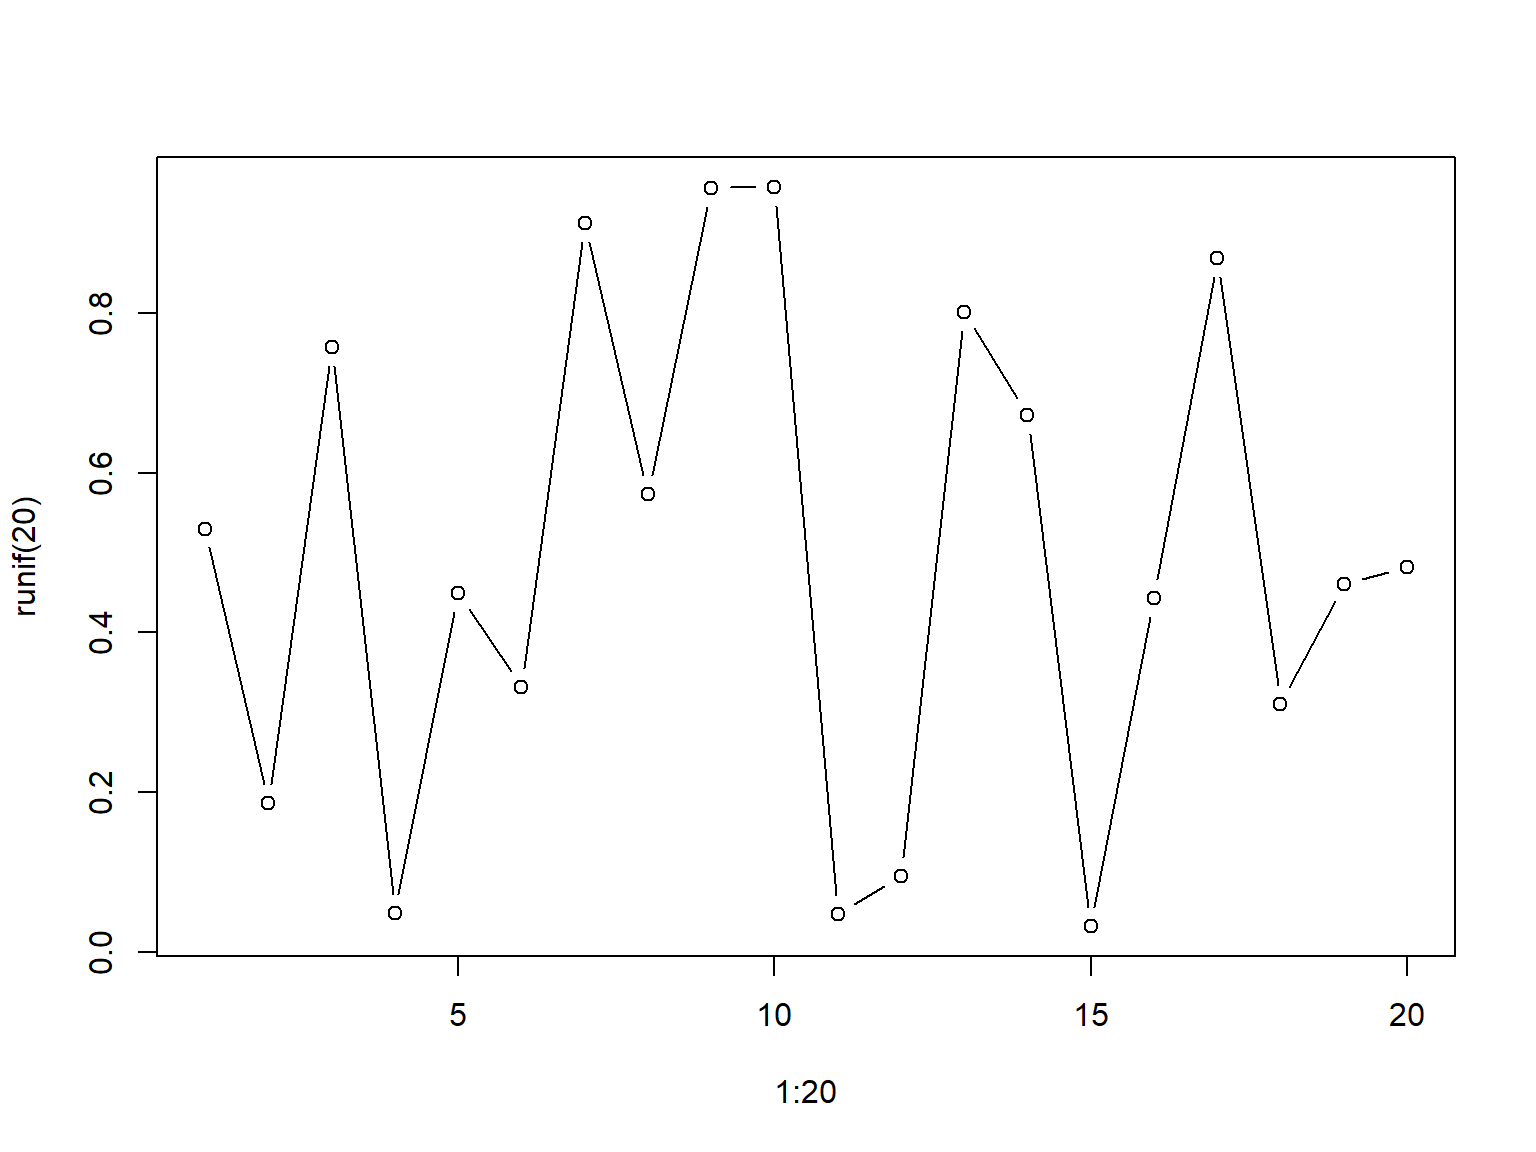
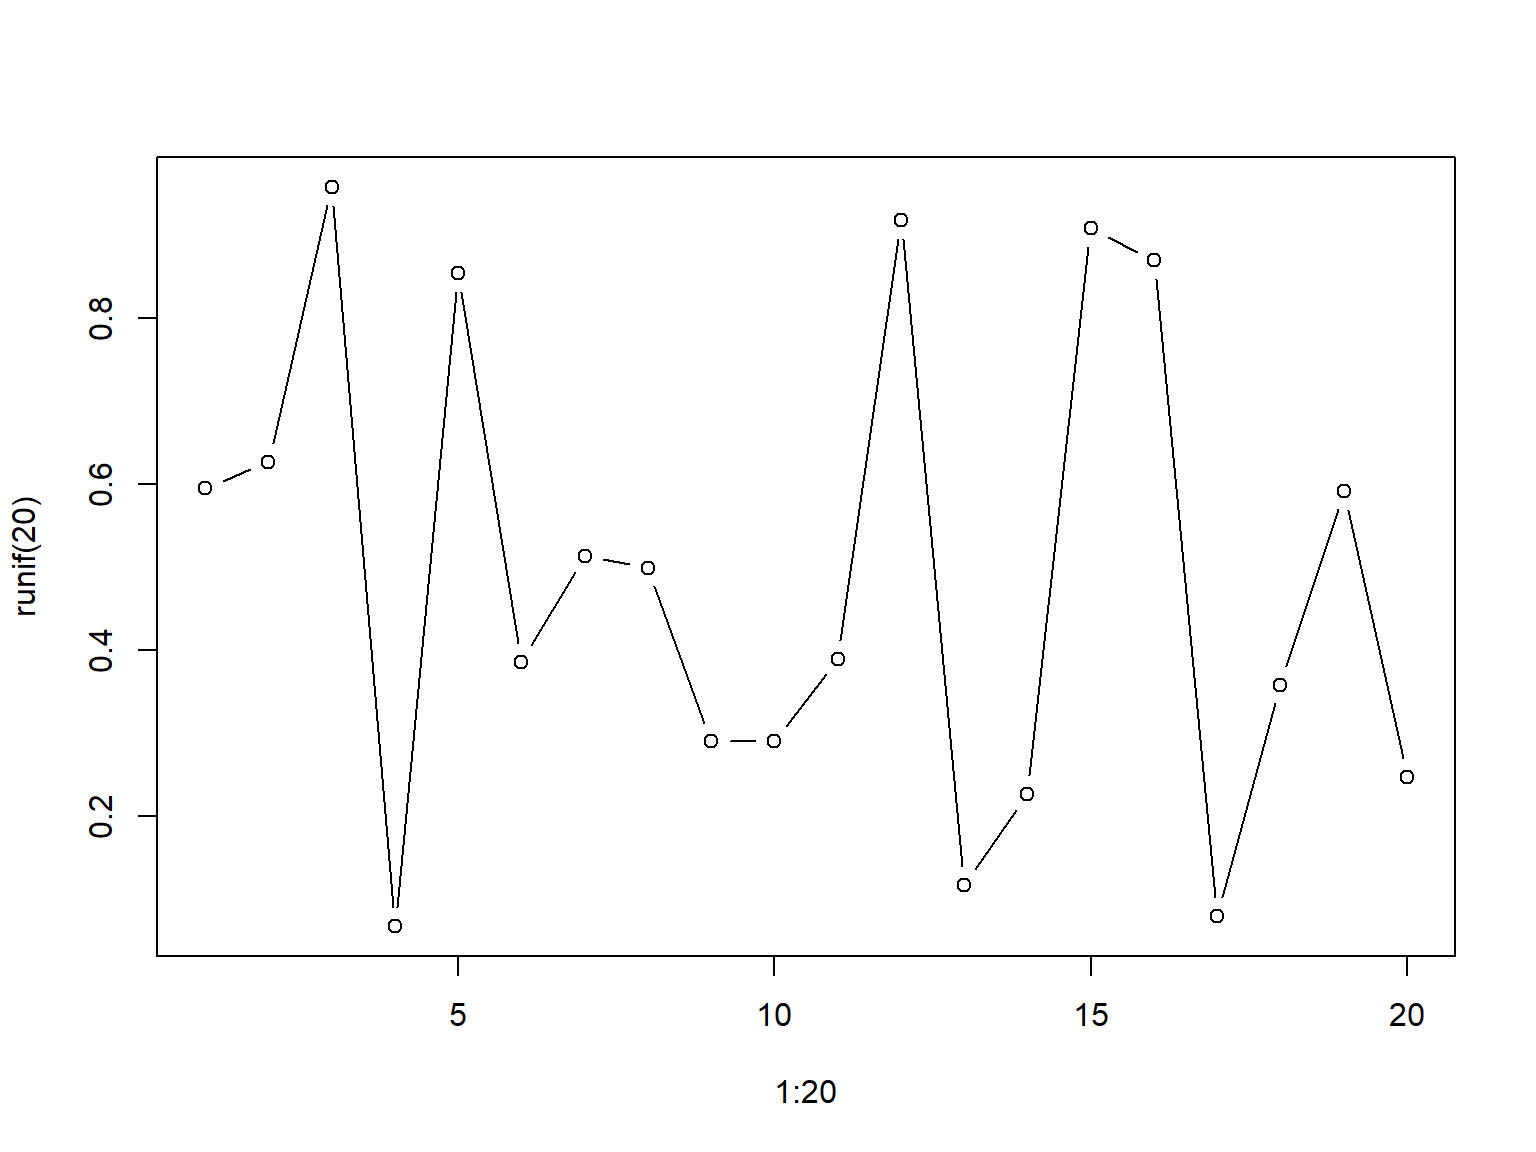
Update to index.html, slides_pt1

diff --git a/slides/slides_pt1.html b/slides/slides_pt1.html
@@ -7,7 +7,7 @@
   <meta http-equiv="Content-Style-Type" content="text/css" />
   <meta name="generator" content="pandoc" />
   <meta name="author" content=" October 11, 2022" />
-  <meta name="copyright" content="<a href='' style='color:#444;'></a>"/>
+  <meta name="copyright" content="<a href='https://ucanr-igis.github.io/IntroR_Oct22/' style='color:#444;'>https://ucanr-igis.github.io/IntroR_Oct22/</a>"/>
   <title>Intro to R Pt1</title>
   <style type="text/css">
     code{white-space: pre-wrap;}
@@ -176,7 +176,7 @@ code span.wa { color: #60a0b0; font-weight: bold; font-style: italic; } /* Warni
 <img src='images/r_rstudio_400x120.png' style='width:400px; height:120px; margin-top:0.5em; margin-bottom:2em;'/><br/>October
 11, 2022
   </p>
-  <p class="date"><a href='' style='color:darkgreen; font-size:105%; font-family:monospace;'>
+  <p class="date"><a href='https://ucanr-igis.github.io/IntroR_Oct22/' style='color:darkgreen; font-size:105%; font-family:monospace;'>https://ucanr-igis.github.io/IntroR_Oct22/
 </a><br/><img src='images/igis-logo_550x58x256.png' style='margin-top:1.5em;'/></p>
 </div>
 <div id="about-me" class="slide section level1">
@@ -200,8 +200,8 @@ w3c_slidy.mouse_click_enabled = false;
[1 lines of base64/hex data omitted]
 <p class='qtext'>Location</p>
 <div style='margin:0 1em;'>
-<div id="htmlwidget-f738efbcca17c8d09a56" style="width:100%;height:400px;" class="leaflet html-widget"></div>
-<script type="application/json" data-for="htmlwidget-f738efbcca17c8d09a56">{"x":{"options":{"crs":{"crsClass":"L.CRS.EPSG3857","code":null,"proj4def":null,"projectedBounds":null,"options":{}}},"calls":[{"method":"addTiles","args":["https://{s}.tile.openstreetmap.org/{z}/{x}/{y}.png",null,null,{"minZoom":0,"maxZoom":18,"tileSize":256,"subdomains":"abc","errorTileUrl":"","tms":false,"noWrap":false,"zoomOffset":0,"zoomReverse":false,"opacity":1,"zIndex":1,"detectRetina":false,"attribution":"&copy; <a href=\"https://openstreetmap.org\">OpenStreetMap<\/a> contributors, <a href=\"https://creativecommons.org/licenses/by-sa/2.0/\">CC-BY-SA<\/a>"}]},{"method":"addCircleMarkers","args":[[33.6845673,35.8577443,35.8577443,22.5645175,-15.7666707,37.8715226,37.8715226,37.8715226,37.8715226,37.8043514,33.8491816,36.2077288,37.8715226,-27.4704528,37.8715226,34.4208305,37.8715226,38.5449065,20.8074834,38.5449065,33.9806005,38.5449065,41.8781136,38.2975381,36.6116174,38.5449065,33.9806005,38.5804609,38.5449065,37.7749295,38.5449065,38.5449065,34.134728,40.7309778,38.5449065,34.2804923,37.8043514,37.0849464,37.33874,38.8965654,38.5449065,38.5449065,37.8043514,37.33874,38.5449065,38.5449065,38.5449065,42.4439614,37.8043514,37.8043514,38.6785157,33.9806005,33.9806005,42.4439614,38.5449065,36.7377981,33.6845673,42.4439614,35.3732921,38.5449065,37.6392595,36.7377981,38.5449065,38.5449065,33.9806005,38.1960298,38.5449065,38.5449065,38.5449065,38.5449065,33.9806005,33.9806005,34.0522342,36.6116174,38.5449065,33.9806005,40.8020712,38.6785157,38.5449065,36.7377981,38.6785157,33.9806005,42.4439614,33.9806005,38.5449065,39.1501709,36.6116174,37.8043514,38.5449065],[-117.8265049,-0.3096606,-0.3096606,72.928871,35.0167866,-122.273042,-122.273042,-122.273042,-122.273042,-122.2711639,-118.3884078,-119.3473379,-122.273042,153.0260341,-122.273042,-119.6981901,-122.273042,-121.7405167,-105.2480864,-121.7405167,-117.3754942,-121.7405167,-87.6297982,-122.286865,-119.5270734,-121.7405167,-117.3754942,-121.530234,-121.7405167,-122.4194155,-121.7405167,-121.7405167,-116.3130661,-122.9419708,-121.7405167,-119.2945199,-122.2711639,-121.6102216,-121.8852525,-121.0768901,-121.7405167,-121.7405167,-122.2711639,-121.8852525,-121.7405167,-121.7405167,-121.7405167,-76.5018807,-122.2711639,-122.2711639,-121.7732971,-117.3754942,-117.3754942,-76.5018807,-121.7405167,-119.7871247,-117.8265049,-76.5018807,-119.0187125,-121.7405167,-120.9970014,-119.7871247,-121.7405167,-121.7405167,-117.3754942,-120.6804872,-121.7405167,-121.7405167,-121.7405167,-121.7405167,-117.3754942,-117.3754942,-118.2436849,-119.5270734,-121.7405167,-117.3754942,-124.1636729,-121.7732971,-121.7405167,-119.7871247,-121.7732971,-117.3754942,-76.5018807,-117.3754942,-121.7405167,-123.2077831,-119.5270734,-122.2711639,-121.7405167],10,null,null,{"interactive":true,"className":"","stroke":false,"color":"#03F","weight":5,"opacity":0.5,"fill":true,"fillColor":"#03F","fillOpacity":0.5},1,null,null,null,null,{"interactive":false,"permanent":false,"direction":"auto","opacity":1,"offset":[0,0],"textsize":"10px","textOnly":false,"className":"","sticky":true},null]}],"limits":{"lat":[-27.4704528,42.4439614],"lng":[-124.1636729,153.0260341]}},"evals":[],"jsHooks":[]}</script>
+<div id="htmlwidget-43a6e249119abfb8fde6" style="width:100%;height:400px;" class="leaflet html-widget"></div>
+<script type="application/json" data-for="htmlwidget-43a6e249119abfb8fde6">{"x":{"options":{"crs":{"crsClass":"L.CRS.EPSG3857","code":null,"proj4def":null,"projectedBounds":null,"options":{}}},"calls":[{"method":"addTiles","args":["https://{s}.tile.openstreetmap.org/{z}/{x}/{y}.png",null,null,{"minZoom":0,"maxZoom":18,"tileSize":256,"subdomains":"abc","errorTileUrl":"","tms":false,"noWrap":false,"zoomOffset":0,"zoomReverse":false,"opacity":1,"zIndex":1,"detectRetina":false,"attribution":"&copy; <a href=\"https://openstreetmap.org\">OpenStreetMap<\/a> contributors, <a href=\"https://creativecommons.org/licenses/by-sa/2.0/\">CC-BY-SA<\/a>"}]},{"method":"addCircleMarkers","args":[[33.6845673,35.8577443,35.8577443,22.5645175,-15.7666707,37.8715226,37.8715226,37.8715226,37.8715226,37.8043514,33.8491816,36.2077288,37.8715226,-27.4704528,37.8715226,34.4208305,37.8715226,38.5449065,20.8074834,38.5449065,33.9806005,38.5449065,41.8781136,38.2975381,36.6116174,38.5449065,33.9806005,38.5804609,38.5449065,37.7749295,38.5449065,38.5449065,34.134728,40.7309778,38.5449065,34.2804923,37.8043514,37.0849464,37.33874,38.8965654,38.5449065,38.5449065,37.8043514,37.33874,38.5449065,38.5449065,38.5449065,42.4439614,37.8043514,37.8043514,38.6785157,33.9806005,33.9806005,42.4439614,38.5449065,36.7377981,33.6845673,42.4439614,35.3732921,38.5449065,37.6392595,36.7377981,38.5449065,38.5449065,33.9806005,38.1960298,38.5449065,38.5449065,38.5449065,38.5449065,33.9806005,33.9806005,34.0522342,36.6116174,38.5449065,33.9806005,40.8020712,38.6785157,38.5449065,36.7377981,38.6785157,33.9806005,42.4439614,33.9806005,38.5449065,39.1501709,36.6116174,37.8043514,38.5449065],[-117.8265049,-0.3096606,-0.3096606,72.928871,35.0167866,-122.273042,-122.273042,-122.273042,-122.273042,-122.2711639,-118.3884078,-119.3473379,-122.273042,153.0260341,-122.273042,-119.6981901,-122.273042,-121.7405167,-105.2480864,-121.7405167,-117.3754942,-121.7405167,-87.6297982,-122.286865,-119.5270734,-121.7405167,-117.3754942,-121.530234,-121.7405167,-122.4194155,-121.7405167,-121.7405167,-116.3130661,-122.9419708,-121.7405167,-119.2945199,-122.2711639,-121.6102216,-121.8852525,-121.0768901,-121.7405167,-121.7405167,-122.2711639,-121.8852525,-121.7405167,-121.7405167,-121.7405167,-76.5018807,-122.2711639,-122.2711639,-121.7732971,-117.3754942,-117.3754942,-76.5018807,-121.7405167,-119.7871247,-117.8265049,-76.5018807,-119.0187125,-121.7405167,-120.9970014,-119.7871247,-121.7405167,-121.7405167,-117.3754942,-120.6804872,-121.7405167,-121.7405167,-121.7405167,-121.7405167,-117.3754942,-117.3754942,-118.2436849,-119.5270734,-121.7405167,-117.3754942,-124.1636729,-121.7732971,-121.7405167,-119.7871247,-121.7732971,-117.3754942,-76.5018807,-117.3754942,-121.7405167,-123.2077831,-119.5270734,-122.2711639,-121.7405167],10,null,null,{"interactive":true,"className":"","stroke":false,"color":"#03F","weight":5,"opacity":0.5,"fill":true,"fillColor":"#03F","fillOpacity":0.5},1,null,null,null,null,{"interactive":false,"permanent":false,"direction":"auto","opacity":1,"offset":[0,0],"textsize":"10px","textOnly":false,"className":"","sticky":true},null]}],"limits":{"lat":[-27.4704528,42.4439614],"lng":[-124.1636729,153.0260341]}},"evals":[],"jsHooks":[]}</script>
 </div>
 </div>
 </div>
@@ -349,7 +349,7 @@ run RStudio through a browser</li>
 </li>
 <li>everything gets saved between sessions<br />
 </li>
-<li>workspaces have projects<br />
+<li>workspaces and projects can be shared with collaborators<br />
 </li>
 </ul>
 </div>
@@ -372,7 +372,8 @@ class="slide section level1">
 </p>
 <p>RStudio Cloud project for this workshop:</p>
 <p style="font-family:monospace; font-size:110%; text-align:center;">
-<a href="" target="_blank"></a>
+<a href="https://rstudio.cloud/content/4701501"
+target="_blank">https://rstudio.cloud/content/4701501</a>
 </p>
 <p>After it opens:</p>
 <p><img src="images/rstudio-cloud_save-perm-copy_334x58.png"
@@ -534,7 +535,7 @@ SignatureMethod
 <h1>Vectors</h1>
 <p><strong>vectors</strong> are R objects that contain <strong>multiple
 values</strong> of the <strong>same class</strong>.</p>
-<p>example:</p>
+<p>Example:</p>
 <div class="indented2 indented2r">
 <div class="sourceCode" id="cb3"><pre class="sourceCode r"><code class="sourceCode r"><span id="cb3-1"><a href="#cb3-1" aria-hidden="true" tabindex="-1"></a>i <span class="ot">=</span> <span class="dv">4</span><span class="sc">:</span><span class="dv">12</span></span>
 <span id="cb3-2"><a href="#cb3-2" aria-hidden="true" tabindex="-1"></a>i</span></code></pre></div>
@@ -542,14 +543,16 @@ values</strong> of the <strong>same class</strong>.</p>
 </div>
 <p><br />
 </p>
-<p><img src="images/vectors_540x240x256.png" /></p>
+<p>More examples:</p>
+<p><img src="images/vectors_450x230x256.png"
+style="margin-left:2em;" /></p>
 <p><br />
 </p>
 </div>
 <div id="creating-vectors" class="slide section level1">
 <h1>Creating Vectors</h1>
-<p>In general, you need to use a function or operator to create a
-vector.</p>
+<p>In general, you need to use a <strong>function</strong> or
+<strong>operator</strong> to create a vector.</p>
 <p>Sequence of numbers with the <code>:</code> operator:</p>
 <div class="indented2 indented2r">
 <div class="sourceCode" id="cb5"><pre class="sourceCode r"><code class="sourceCode r"><span id="cb5-1"><a href="#cb5-1" aria-hidden="true" tabindex="-1"></a><span class="dv">1</span><span class="sc">:</span><span class="dv">10</span></span></code></pre></div>
@@ -592,17 +595,17 @@ vector.</p>
 <p>Random number functions:</p>
 <div class="indented2 indented2r">
 <div class="sourceCode" id="cb17"><pre class="sourceCode r"><code class="sourceCode r"><span id="cb17-1"><a href="#cb17-1" aria-hidden="true" tabindex="-1"></a><span class="fu">runif</span>(<span class="dv">20</span>)</span></code></pre></div>
-<pre><code>##  [1] 0.55338869 0.96960242 0.53803104 0.71610610 0.82973386 0.09689099
-##  [7] 0.55054791 0.82919331 0.05308374 0.16429802 0.15869106 0.12842409
-## [13] 0.20730236 0.17363009 0.17856400 0.83550371 0.97857382 0.24177636
-## [19] 0.93208170 0.85379289</code></pre>
+<pre><code>##  [1] 0.03309792 0.60196084 0.65814506 0.12728322 0.69665548 0.80223637
+##  [7] 0.03898626 0.30141536 0.83012681 0.63929438 0.74853941 0.09387695
+## [13] 0.29443831 0.01050699 0.42225148 0.81141854 0.86161133 0.60625491
+## [19] 0.30007551 0.44851046</code></pre>
 <div class="sourceCode" id="cb19"><pre class="sourceCode r"><code class="sourceCode r"><span id="cb19-1"><a href="#cb19-1" aria-hidden="true" tabindex="-1"></a><span class="fu">rnorm</span>(<span class="dv">20</span>)</span></code></pre></div>
-<pre><code>##  [1] -0.4212197 -3.0816224  1.0378836  0.8997452  1.6239763 -0.2075811
-##  [7]  3.5606135 -0.1447879 -0.8330476  0.7789270  0.1034315 -1.2366893
-## [13]  1.0061755  0.4670007 -0.3556756 -0.7914420 -0.2875230  0.7585596
-## [19]  1.2561852  0.1326162</code></pre>
+<pre><code>##  [1] -1.27798693  0.08931286  0.17529729 -1.28521389 -0.33998876  0.05865184
+##  [7] -1.48342287  1.10969171  2.34968463 -0.45930268 -0.59704049  2.75148531
+## [13] -0.75530448  1.38486272  0.30026335 -1.44125559  0.44928661  1.89783901
+## [19]  0.11138558  3.18431441</code></pre>
 <div class="sourceCode" id="cb21"><pre class="sourceCode r"><code class="sourceCode r"><span id="cb21-1"><a href="#cb21-1" aria-hidden="true" tabindex="-1"></a><span class="fu">sample</span>(month.abb, <span class="dv">3</span>)</span></code></pre></div>
-<pre><code>## [1] &quot;Jun&quot; &quot;Oct&quot; &quot;Sep&quot;</code></pre>
+<pre><code>## [1] &quot;Dec&quot; &quot;Nov&quot; &quot;May&quot;</code></pre>
 </div>
 </div>
 <div id="how-vectors-behave" class="slide section level1">
@@ -648,21 +651,21 @@ vector.</p>
 <div class="indented2 indented2r">
 <div class="sourceCode" id="cb35"><pre class="sourceCode r"><code class="sourceCode r"><span id="cb35-1"><a href="#cb35-1" aria-hidden="true" tabindex="-1"></a>x <span class="ot">=</span> <span class="fu">runif</span>(<span class="dv">20</span>)</span>
 <span id="cb35-2"><a href="#cb35-2" aria-hidden="true" tabindex="-1"></a>x</span></code></pre></div>
-<pre><code>##  [1] 0.67737322 0.27469840 0.03867373 0.22858820 0.09756199 0.32286708
-##  [7] 0.51688024 0.41819372 0.94180292 0.13491340 0.60035409 0.54258815
-## [13] 0.17266262 0.53064351 0.95718492 0.60024597 0.89098547 0.45673635
-## [19] 0.32023179 0.54388001</code></pre>
+<pre><code>##  [1] 0.009446045 0.711478905 0.312453919 0.449174387 0.685868939 0.899493035
+##  [7] 0.769764164 0.533284565 0.521983210 0.784611919 0.489697164 0.856191159
+## [13] 0.799191976 0.989562375 0.814985184 0.133194285 0.220546580 0.340427637
+## [19] 0.058304726 0.927442134</code></pre>
 </div>
 <p><br />
 </p>
 <p>Most descriptive stats functions are aggregate:</p>
 <div class="indented2 indented2r">
 <div class="sourceCode" id="cb37"><pre class="sourceCode r"><code class="sourceCode r"><span id="cb37-1"><a href="#cb37-1" aria-hidden="true" tabindex="-1"></a><span class="fu">mean</span>(x)</span></code></pre></div>
-<pre><code>## [1] 0.4633533</code></pre>
+<pre><code>## [1] 0.5653551</code></pre>
 <div class="sourceCode" id="cb39"><pre class="sourceCode r"><code class="sourceCode r"><span id="cb39-1"><a href="#cb39-1" aria-hidden="true" tabindex="-1"></a><span class="fu">median</span>(x)</span></code></pre></div>
-<pre><code>## [1] 0.4868083</code></pre>
+<pre><code>## [1] 0.6095768</code></pre>
 <div class="sourceCode" id="cb41"><pre class="sourceCode r"><code class="sourceCode r"><span id="cb41-1"><a href="#cb41-1" aria-hidden="true" tabindex="-1"></a><span class="fu">sd</span>(x)</span></code></pre></div>
-<pre><code>## [1] 0.2713185</code></pre>
+<pre><code>## [1] 0.3042241</code></pre>
 </div>
 <p><br />
 </p>
@@ -675,8 +678,8 @@ vector.</p>
 <div id="subsetting-vectors" class="slide section level1">
 <h1>Subsetting Vectors</h1>
 <p>To extract a single element from a vector, use square bracket
-notation. Inside the square brackets, put the index of the element you
-want.</p>
+notation. Inside the square brackets, put the index of the element(s)
+you want.</p>
 <p><img src="images/vector_indices_885x80x256.png"
 style="display:block; margin:1em auto; border:none;" /></p>
 <div class="indented2 indented2r">

diff --git a/index.html b/index.html
@@ -372,8 +372,14 @@ pay off!</span></p></li>
 <p><em>October 11, 2022. 3:30 - 5:00p PT</em></p>
 <ul>
 <li><p><a href="./slides/slides_pt1.html" target="_blank" rel="noopener">Slides</a></p></li>
-<li><p>Scripts</p></li>
+<li><p>Scripts (already on RStudio Cloud):</p></li>
 </ul>
+<div style="margin-left:3em;">
+<ul>
+<li>Exercise 1 - no script</li>
+<li><a href="https://raw.githubusercontent.com/UCANR-IGIS/IntroR_Oct22/main/ex02.R" target="_blank" rel="noopener">Exercise 2</a></li>
+</ul>
+</div>
 <!---- 
 
 - Scripts: ex01.R &bull; ex02.R
